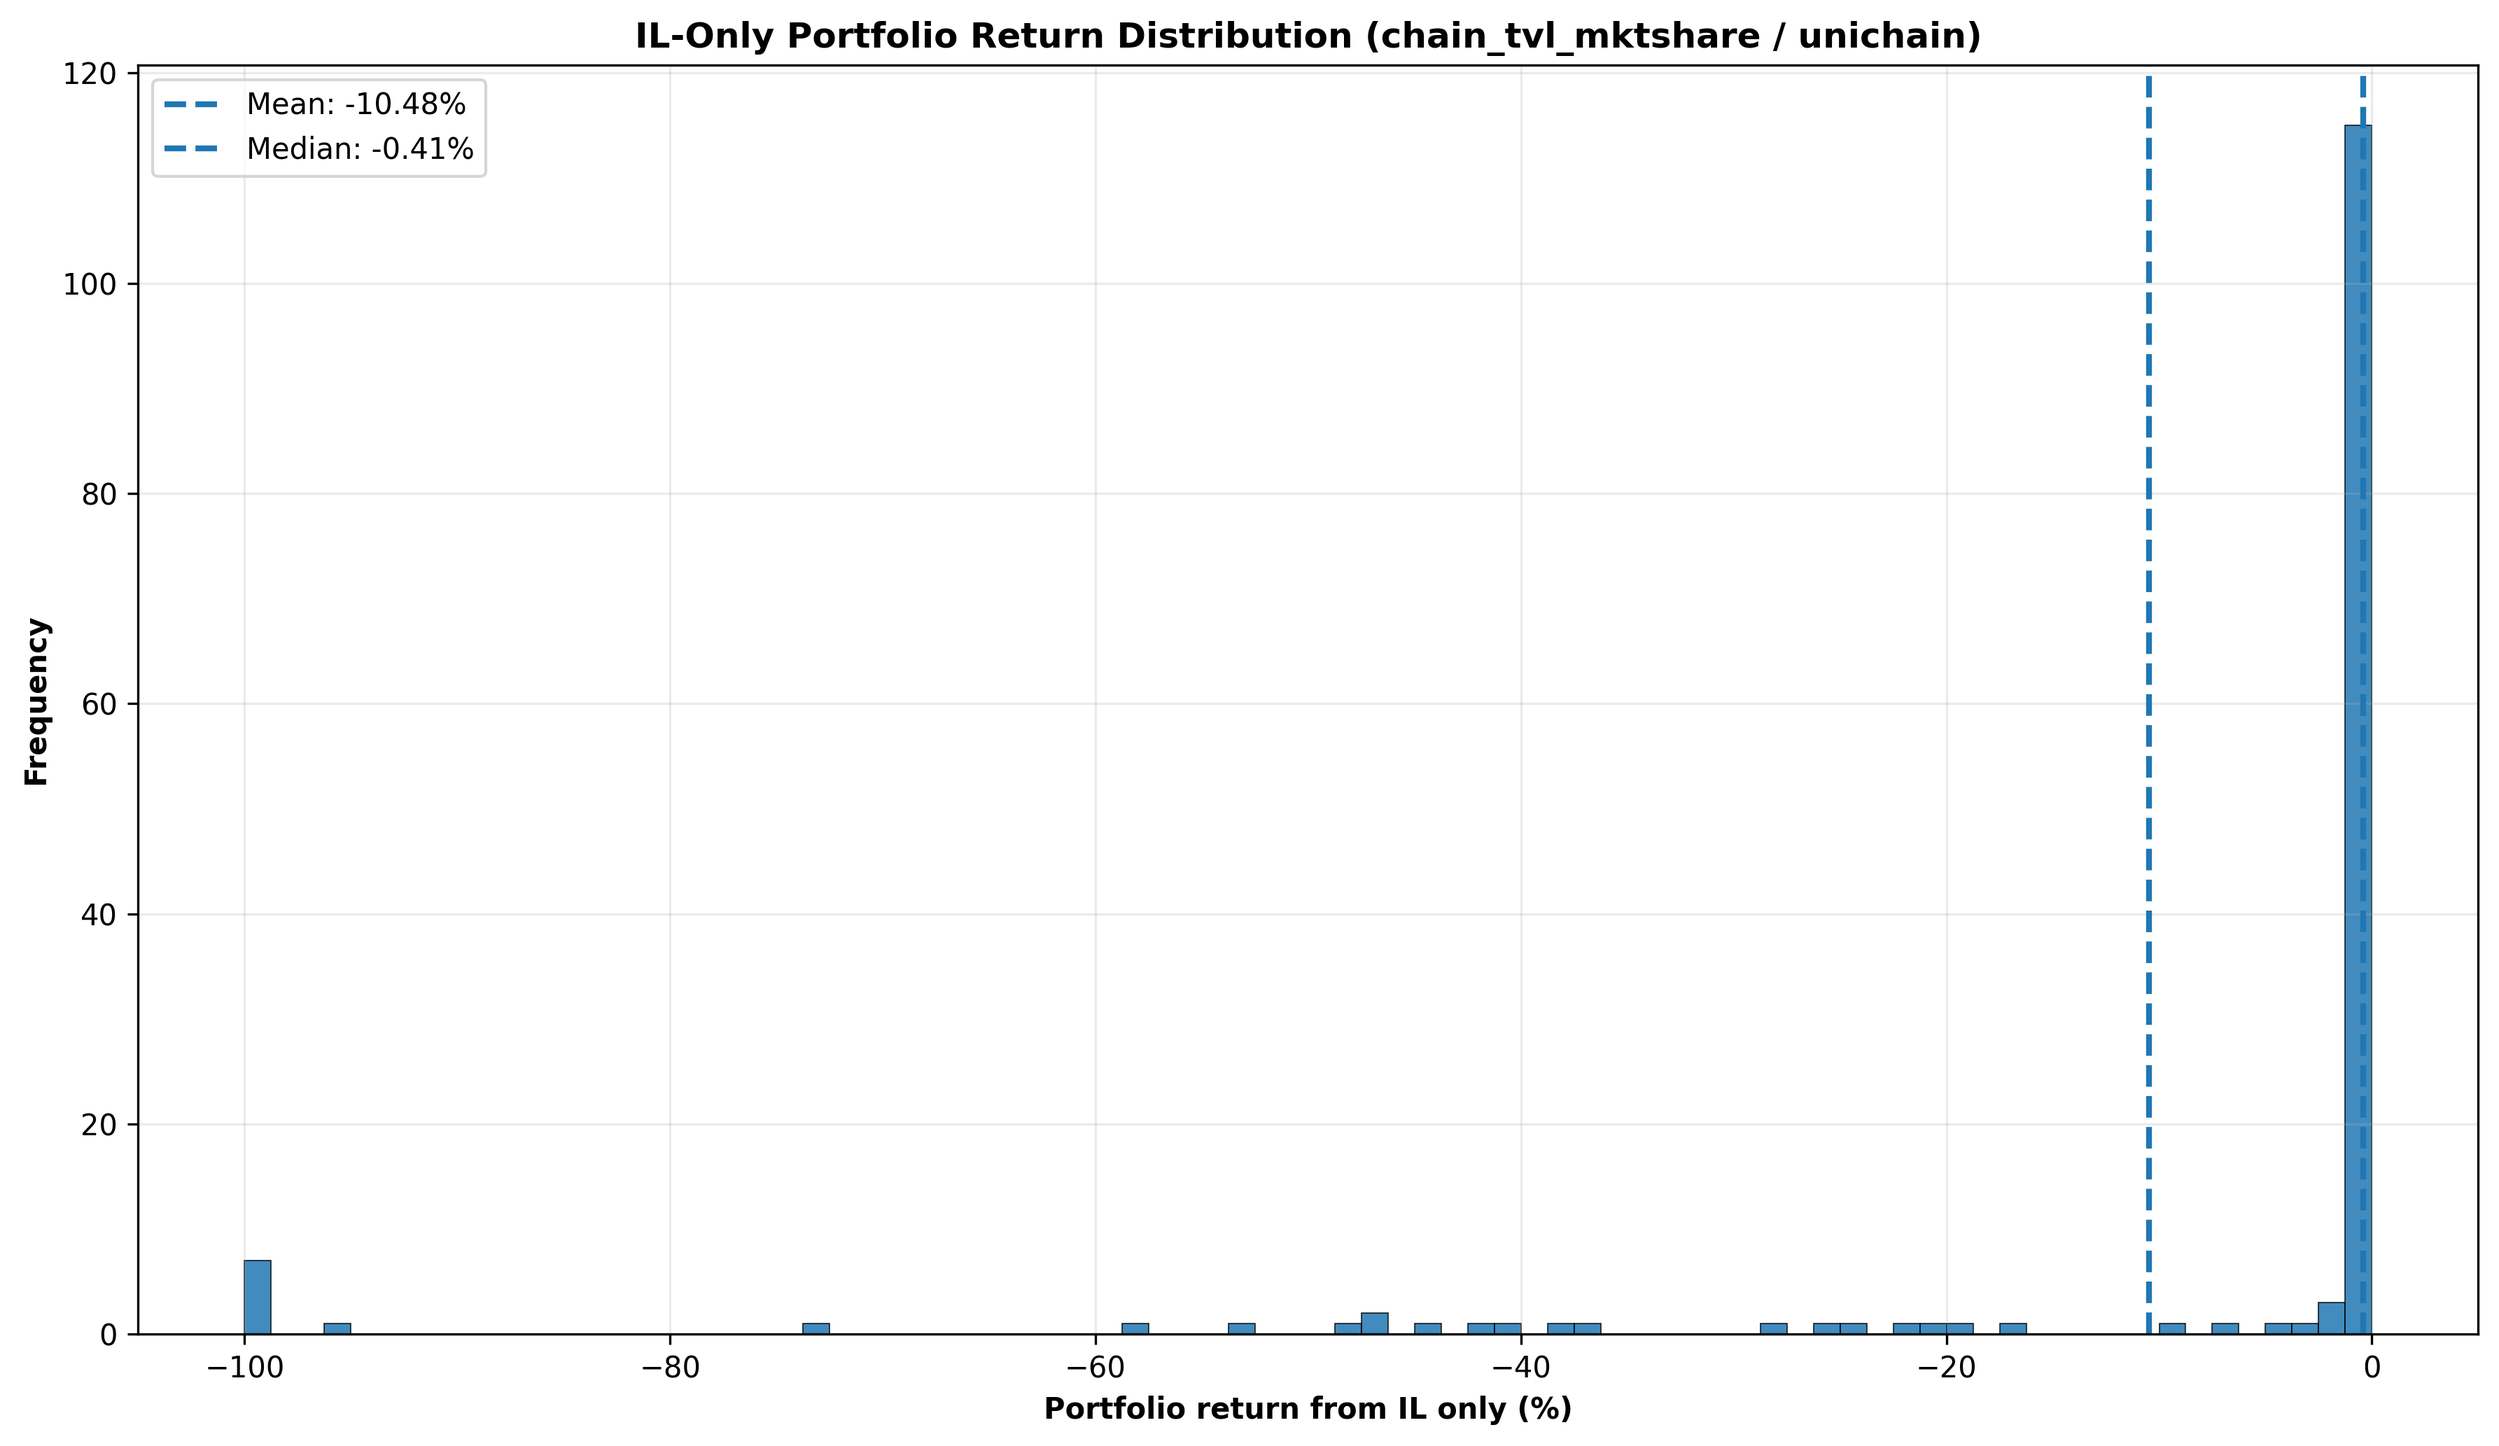
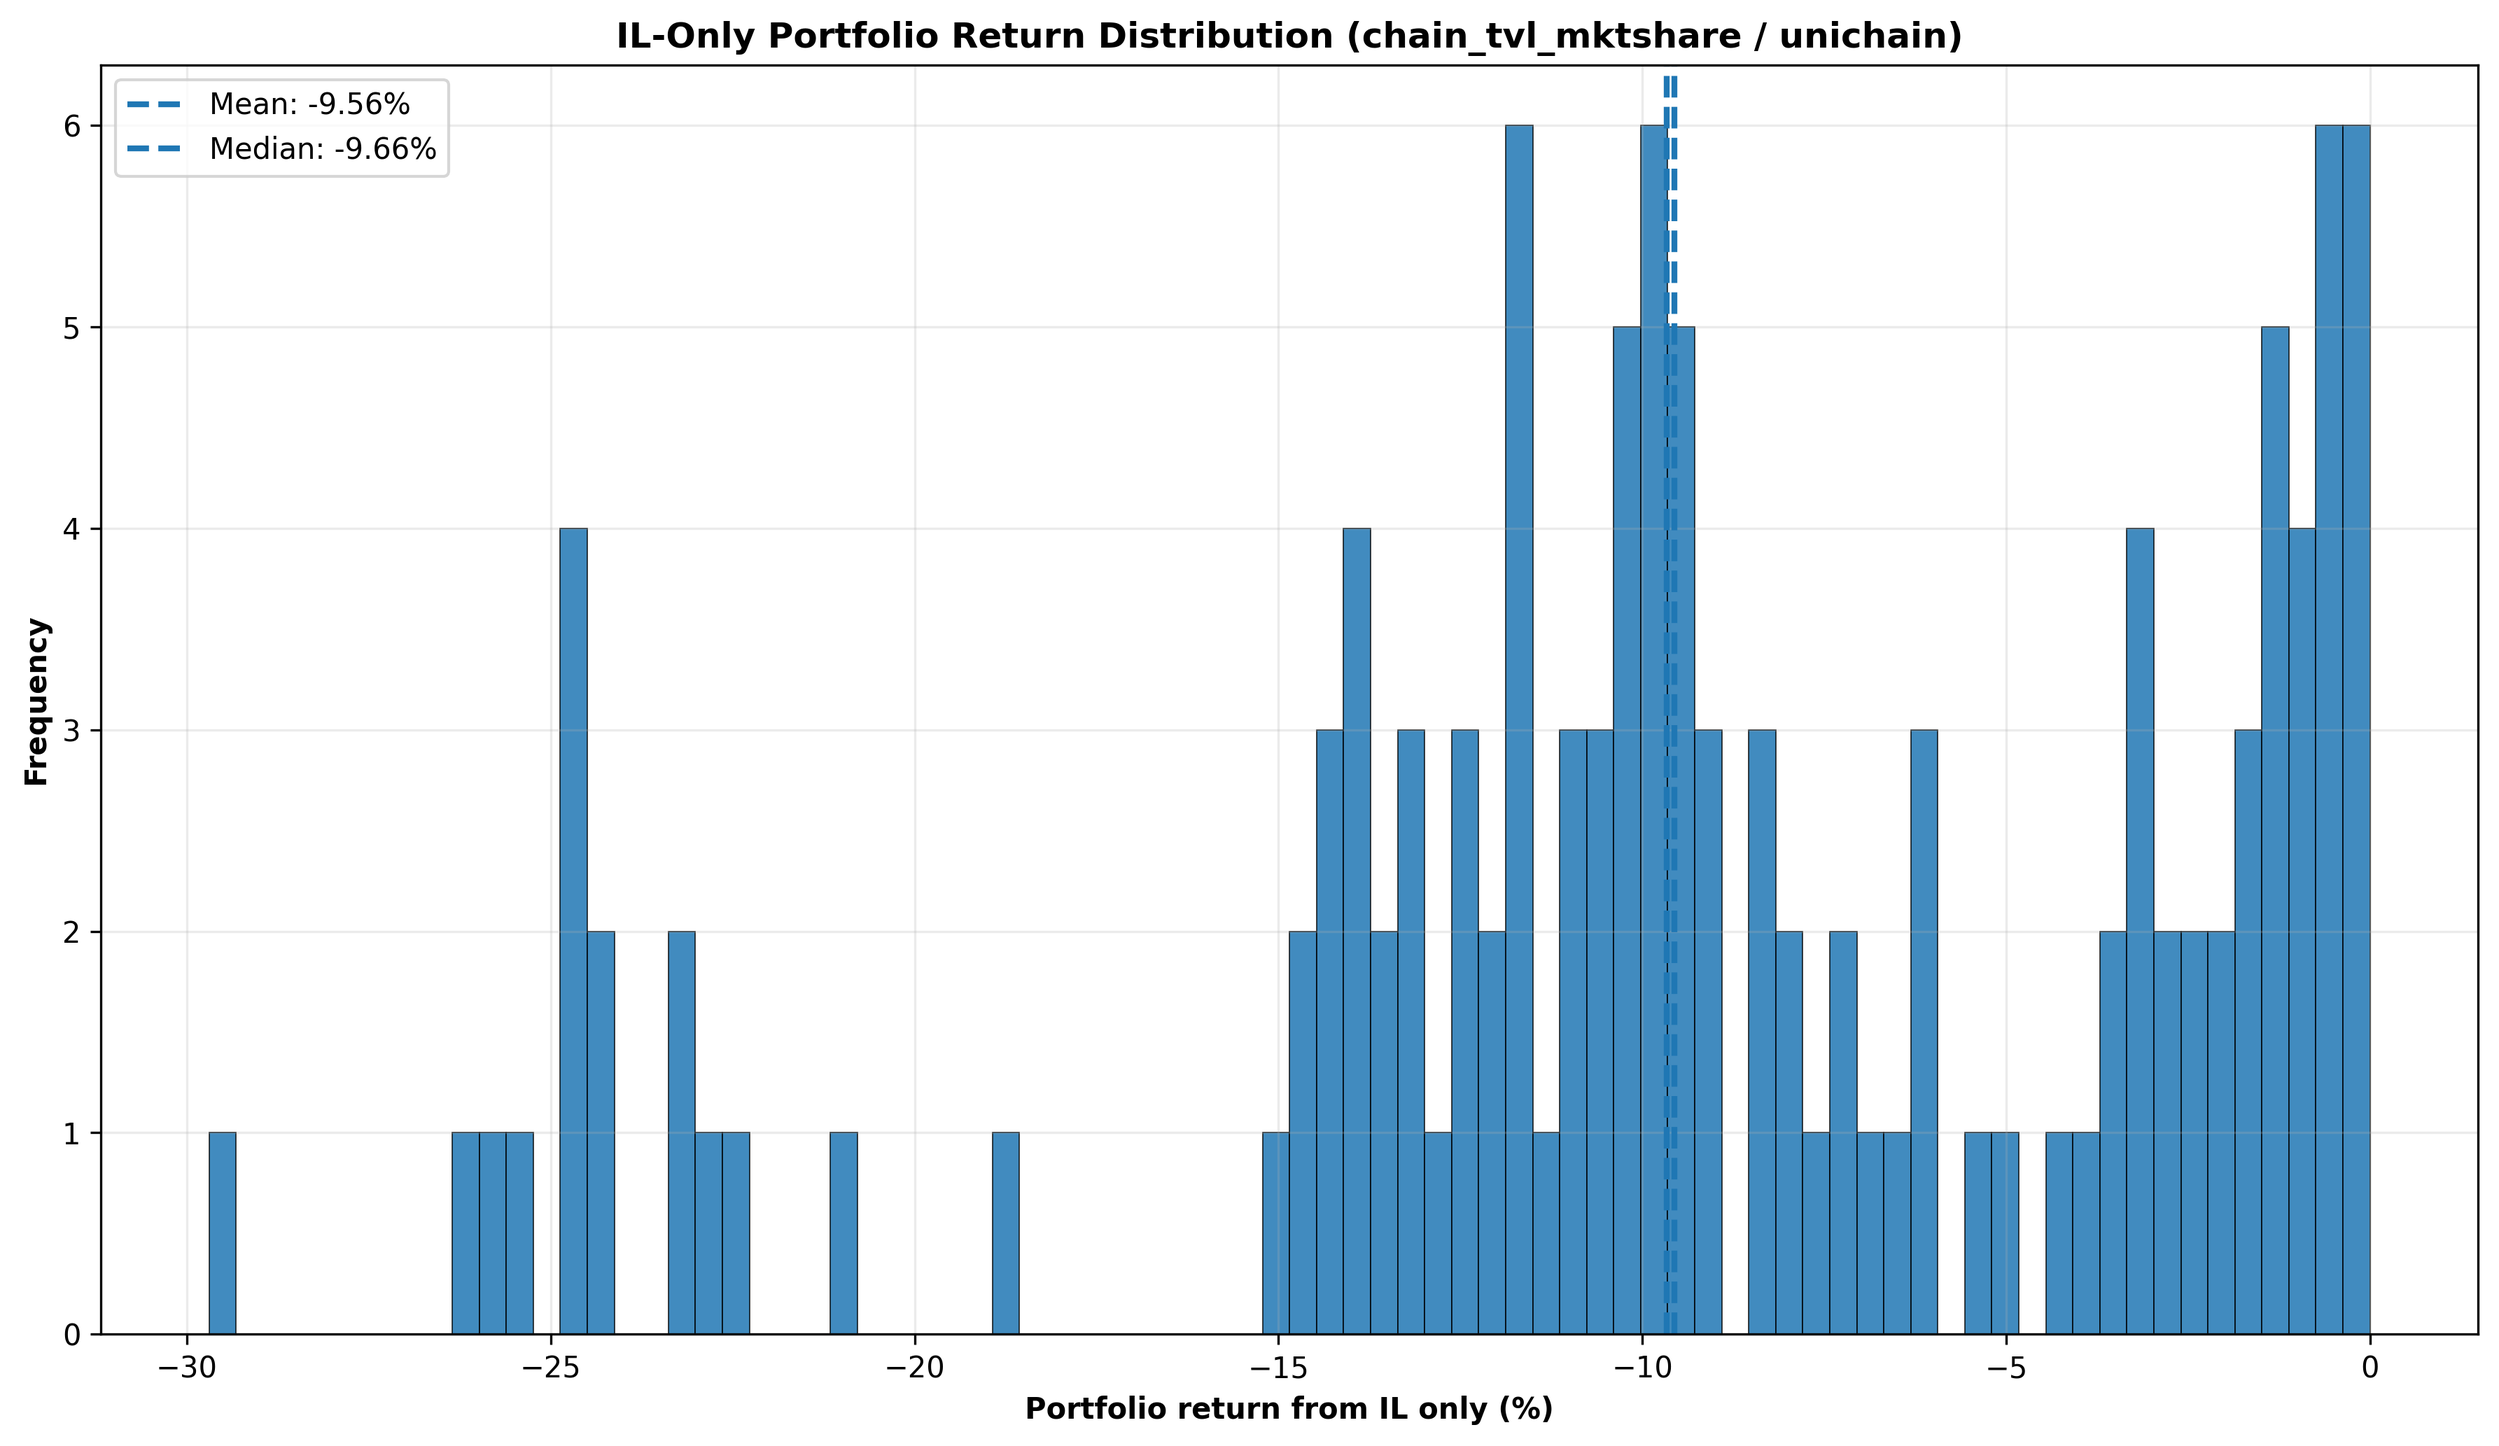
il_by_window.csv il_hist.png il_report.md il_timeseries.png

diff --git a/chain_tvl_mktshare/unichain/2025-09-18-to-2025-10-01/il_report.md b/chain_tvl_mktshare/unichain/2025-09-18-to-2025-10-01/il_report.md
@@ -19,7 +19,7 @@ Each market contains **UP** and **DOWN** tokens representing directional bets on
 - UP and DOWN prices always sum to **$1.00**, forming a complementary pair
 
 ## Price Mapping
-- Market bounds: **min = 0.15**, **max = 0.65**. UP's USD price p is a linear mapping of the metric m into [0,1].
+- Market bounds: **min = 0.085**, **max = 0.65**. UP's USD price p is a linear mapping of the metric m into [0,1].
 - Mapping: we scale the metric between min and max to get a number p between 0 and 1 (values below min map to 0; above max map to 1)
 - DOWN's USD price is 1 − p
 - AMM pool price (UP:DOWN) = p / (1 − p)
@@ -27,8 +27,8 @@ Each market contains **UP** and **DOWN** tokens representing directional bets on
 - Impermanent loss depends on how far the pool price moves away from the starting price at your deposit; larger moves ⇒ larger IL (fees excluded here)
 
 ### Worked Example (for intuition)
-- Take m at 60% of range: m = min + 0.60 × (max − min) = 0.45
-- UP price: p = (m − min) / (max − min) = (0.45 − 0.15) / (0.65 − 0.15) = **0.600**
+- Take m at 60% of range: m = min + 0.60 × (max − min) = 0.424
+- UP price: p = (m − min) / (max − min) = (0.424 − 0.085) / (0.65 − 0.085) = **0.600**
 - AMM pool price (UP:DOWN): p/(1 − p) = 0.600 / 0.400 = **1.500**
 
 
@@ -43,7 +43,7 @@ We simulate starting at each historical window strictly earlier than the cutoff 
 We **exclude** very early windows until a minimum history (processing.min_historical_data_months) has elapsed to avoid unstable bounds.
 
 ## Important
-- **Mean** -10.48% and **median** -0.41% IL-only returns are shown below.
+- **Mean** -9.56% and **median** -9.66% IL-only returns are shown below.
 - These IL losses must be compared to incentive APY to calculate your net returns.
 
 ## Portfolio Performance
@@ -57,9 +57,9 @@ This time series shows how IL-only portfolio returns have varied across differen
 
 ### Distribution Summary (IL-only, %)
 
-- Count: **148**
-- Mean: **-10.48%**, Std: **25.12%**
-- Median: **-0.41%**  |  P25: **-0.84%**  |  P10: **-42.75%**  |  P75: **-0.17%**
+- Count: **122**
+- Mean: **-9.56%**, Std: **7.27%**
+- Median: **-9.66%**  |  P25: **-12.95%**  |  P10: **-22.70%**  |  P75: **-3.03%**
 
 ## Calculating Your Net APY
 
@@ -80,13 +80,13 @@ Where:
 - **IL_Return**: Your expected impermanent loss return (as a decimal, typically negative)
 
 ### Example Calculation (Hypothetical Numbers Only):
-**Example calculation only**: Let's say Merkl shows **200% APY** (this is just an example - actual APY varies by market) and you experience the **median IL loss (-0.41%)**:
+**Example calculation only**: Let's say Merkl shows **200% APY** (this is just an example - actual APY varies by market) and you experience the **median IL loss (-9.66%)**:
 
 1. **Scale Merkl APY to period**: 200% × 0.036 = 7.1%
 2. **Convert to multiplier**: 1 + 7.1% = 1.071
-3. **Apply median IL loss**: 1.071 × (1 + -0.4%) = 1.071 × 0.996 = 1.067
-4. **Net return for 13 days**: 6.7%
-5. **Annualized (APY)**: (1.067)^28.1 - 1 = **514.4% APY**
+3. **Apply median IL loss**: 1.071 × (1 + -9.7%) = 1.071 × 0.903 = 0.968
+4. **Net return for 13 days**: -3.2%
+5. **Annualized (APY)**: (0.968)^28.1 - 1 = **-60.2% APY**
 
 **Steps to use this with your actual numbers:**
 1. Find your market's Merkl campaign and note the **actual APY** (not the 200% example)
